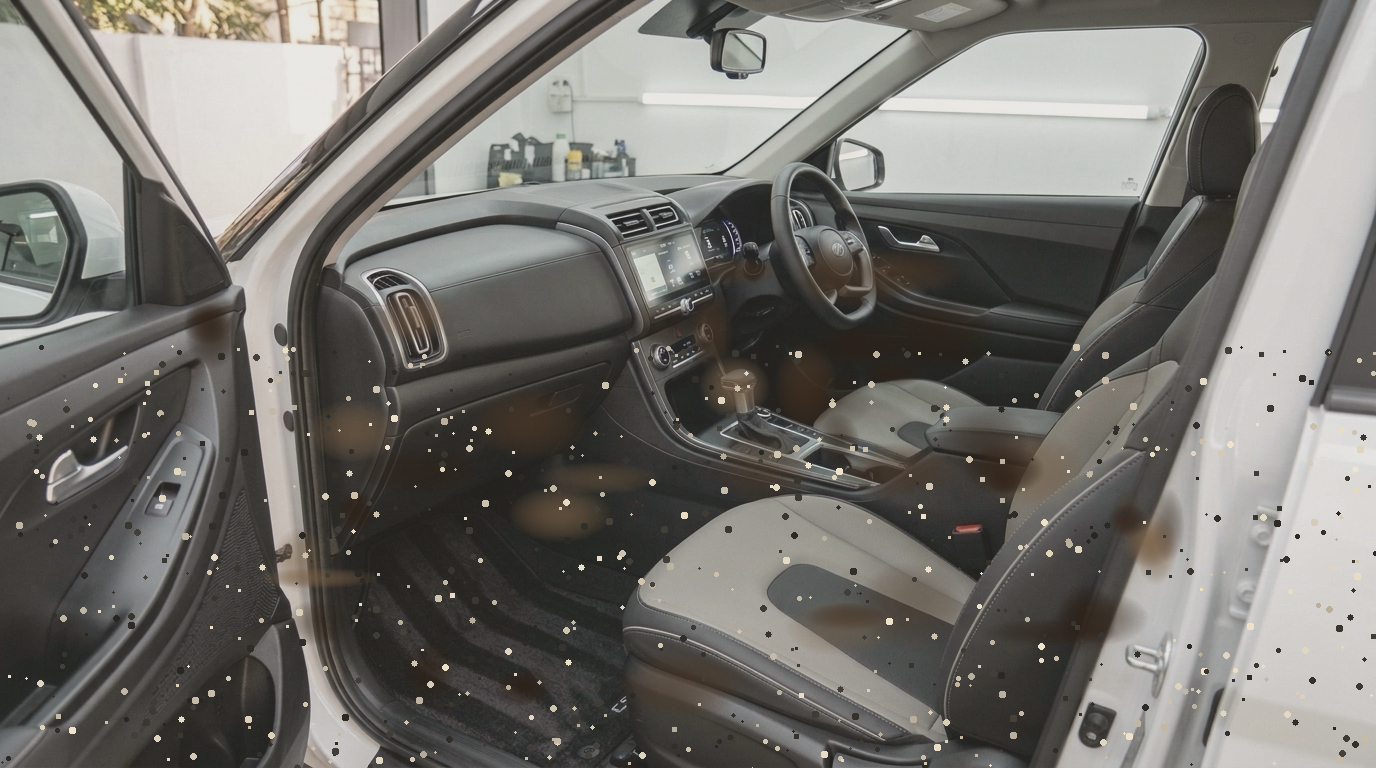
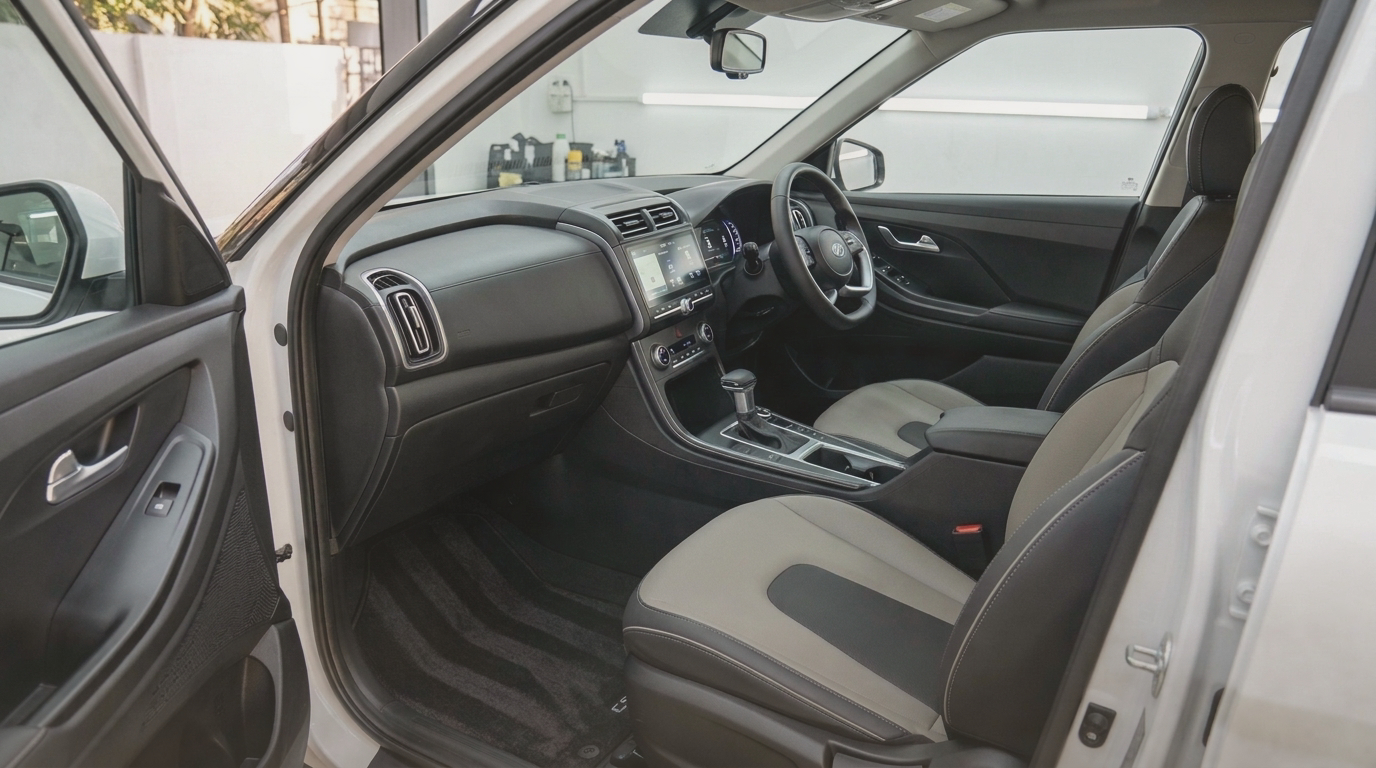
fix(before-after): replace artificial swirl graphics with natural road dust and subtle lower mud

diff --git a/src/data/gallery.ts b/src/data/gallery.ts
@@ -46,9 +46,9 @@ export const BEFORE_AFTER_ITEMS: BeforeAfterItem[] = [
     service: 'Paint Polish / Scratch Correction',
     beforeImage: '/images/before-after/polish-before.jpg',
     afterImage: '/images/before-after/polish-after.jpg',
-    beforeLabel: 'Before: Heavy Mud, Swirls & Dull Paint',
-    afterLabel: 'After: Mirror Gloss & Deep Restoration',
-    transformationDetails: 'Heavy dried mud, severe paint oxidation, and road swirl scratches eliminated through multi-stage compound polishing and gloss refinement.',
+    beforeLabel: 'Before: Road Dust & Light Mud',
+    afterLabel: 'After: High-Gloss Mirror Shine',
+    transformationDetails: 'Everyday road dust film and lower panel mud removed through dual-action snow foam washing, paint decontamination, and high-gloss polish.',
     isAuthenticWorkshopAsset: true,
   },
   {
